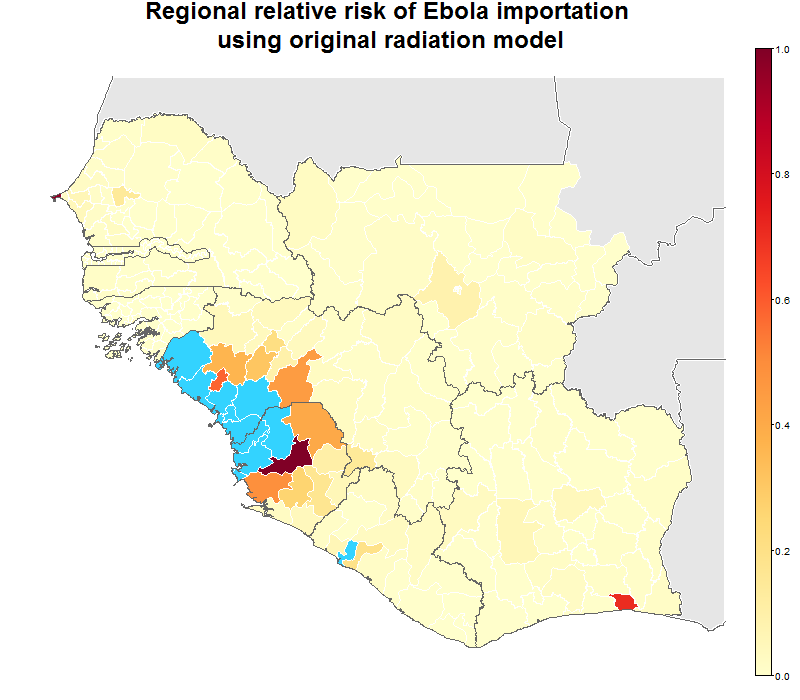
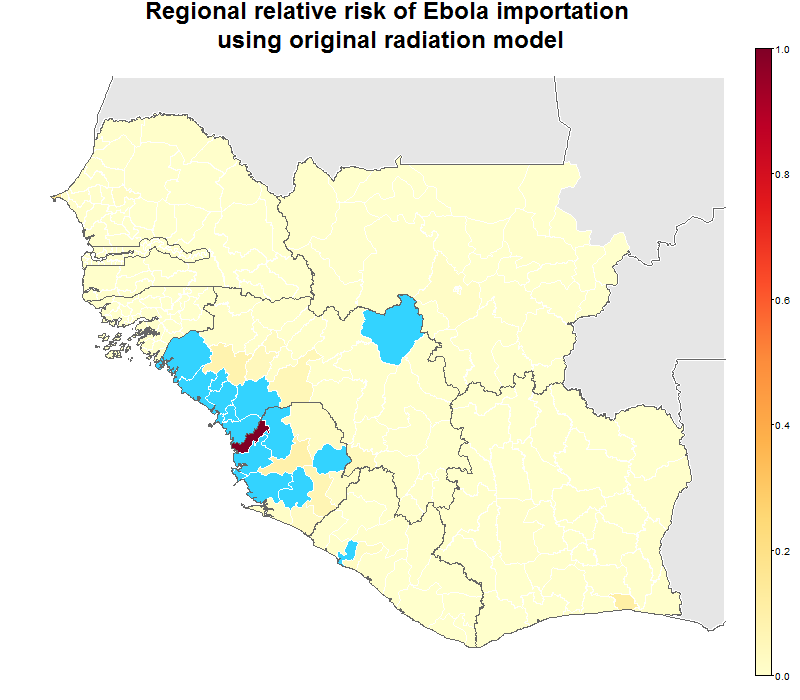
Update regional risk maps with WHO data from 1 April 2015

diff --git a/local-risk.md b/local-risk.md
@@ -11,7 +11,7 @@ The aim of this analysis is to produce a regional, district level metric of the 
 
 [Risk-doc]: http://seeg-oxford.github.io/ebola-spread/local-risk-doc
 
-### Latest data as of 30 March 2015
+### Latest data as of 1 April 2015
 
 <a href="images/regional_prediction_radsel_france_large.png"><img src="images/regional_prediction_radsel_france.png" /></a>
 Predicted relative risk of importation of EVD cases from districts with reported cases in the last <b>21</b> days using the radiation with selection model. Dark red indicates higher risk of importation. Note that this does not represent a prediction of the number of new cases being reported in the future. Districts with reported cases are coloured blue to prevent skew.
